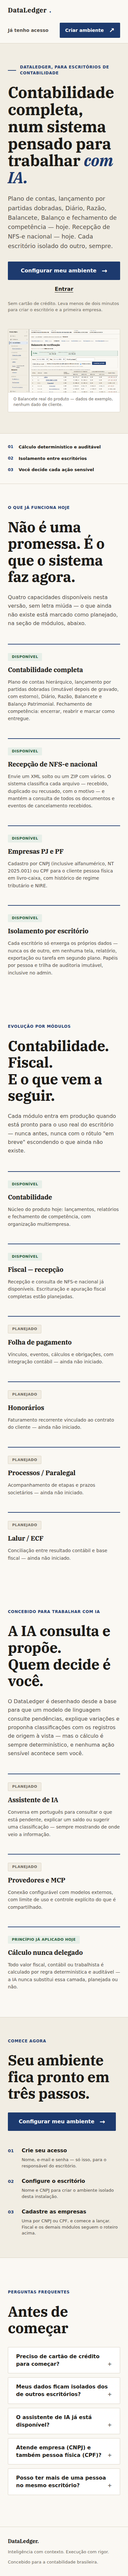
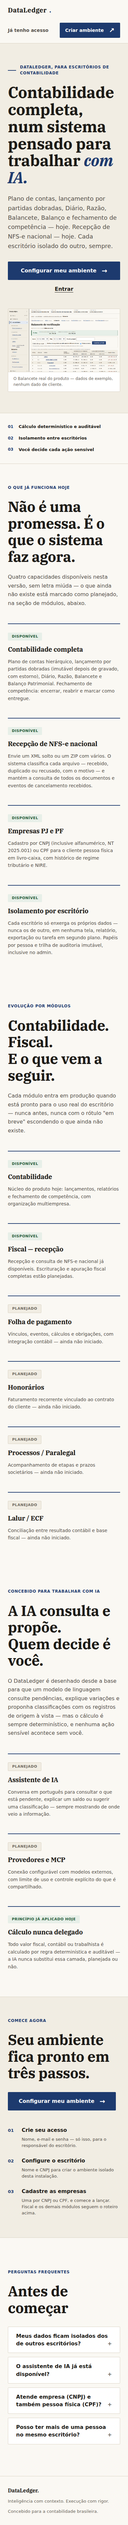
fix(dl042): remove linguagem comercial da landing e corrige altura da barra lateral
Dois ajustes pedidos pelo arquiteto-senior na revisão final da DL-042:

1. Landing: removida a frase "Sem cartão de crédito. Leva menos de dois
   minutos para criar o escritório e a primeira empresa." do herói e a
   pergunta "Preciso de cartão de crédito para começar?" do FAQ (com a
   resposta) — posicionamento comercial de SaaS que o Fred já tinha
   rejeitado na DL-036, e "menos de dois minutos" era afirmação nunca
   medida. Resto da página conferido contra o mesmo critério (venda,
   plano pago, preço, teste grátis): nada mais encontrado. Removida
   também a regra `.hero-note`, agora sem uso, de public.css.

2. Barra lateral: `.app-shell` usa `align-items: flex-start` (não o
   `stretch` padrão, por causa da linha móvel de marca/gatilho), então
   `.barra-lateral` só media a altura do próprio conteúdo de navegação
   em página curta (~290px no Painel), deixando o resto da coluna
   esquerda sem o fundo `--papel-alt`. Corrigido com `align-self:
   stretch` na própria `.barra-lateral`. Medido com getBoundingClientRect
   no Painel (página curta) e no Balancete (página longa) em scrollY
   0/800/1600: a caixa da barra permanece `top:0, height:900` (viewport
   1440x900) em todas as posições de rolagem real. Gaveta móvel (≤48rem,
   `position: fixed`) e impressão (barra na lista oculta de `@media
   print`) não são afetadas pela mudança.

Capturas de Painel, Balancete e Landing (1440x900 e 390x844) refeitas;
[…]

Changed region(s): [[0.0615, 0.4048, 0.9231, 0.9653], [0.0615, 0.0, 0.9231, 0.3737], [0.8308, 0.9031, 0.8615, 0.9653]]

diff --git a/templates/registration/landing.html b/templates/registration/landing.html
@@ -25,7 +25,6 @@ apresentados como prontos. Nenhum número, depoimento ou selo inventado
                 <a class="public-button" href="{% url 'cadastro' %}">Configurar meu ambiente <span aria-hidden="true">→</span></a>
                 <a class="public-text-link" href="{% url 'login' %}">Entrar</a>
             </div>
-            <p class="hero-note">Sem cartão de crédito. Leva menos de dois minutos para criar o escritório e a primeira empresa.</p>
         </div>
         <div class="hero-product">
             <figure>
@@ -158,10 +157,6 @@ apresentados como prontos. Nenhum número, depoimento ou selo inventado
         <h2 id="faq-title">Antes de começar</h2>
     </div>
     <div class="faq-list">
-        <details class="faq-item">
-            <summary>Preciso de cartão de crédito para começar?</summary>
-            <p>Não. Criar o escritório e a primeira empresa não pede pagamento nenhum nesta versão.</p>
-        </details>
         <details class="faq-item">
             <summary>Meus dados ficam isolados dos de outros escritórios?</summary>
             <p>Sim — é uma garantia estrutural do produto, não uma configuração opcional. Nenhuma consulta, relatório, exportação ou tarefa em segundo plano mistura dados de dois escritórios.</p>

diff --git a/static/css/base.css b/static/css/base.css
@@ -491,6 +491,15 @@ summary:focus,
     top: 0;
     max-height: var(--altura-viewport);
     overflow-y: auto;
+    /* `.app-shell` usa `align-items: flex-start` (não o `stretch` padrão) por
+       causa da linha móvel de marca/gatilho, que não deve esticar. A barra
+       precisa do próprio `align-self: stretch` para preencher a altura da
+       linha flex (>= 100vh, por causa do `min-height` de `.app-shell`) mesmo
+       em página curta — do contrário a caixa da barra para na altura do
+       próprio conteúdo de navegação e o resto da coluna esquerda fica sem o
+       fundo `--papel-alt`. `max-height` + `overflow-y: auto` continuam
+       cobrindo a rolagem em página alta. */
+    align-self: stretch;
 }
 
 .barra-lateral__topo {

diff --git a/static/css/public.css b/static/css/public.css
@@ -63,7 +63,6 @@
 .hero-description { max-width: var(--public-largura-texto); margin: 0 0 var(--esp-6); color: var(--tinta-suave); font-size: var(--public-corpo); line-height: 1.6; }
 .hero-actions { display: flex; flex-wrap: wrap; align-items: center; gap: var(--esp-5); }
 .public-text-link { color: var(--tinta); font-size: var(--tipo-md); font-weight: 700; text-decoration: underline; text-underline-offset: var(--esp-1); }
-.hero-note { margin: var(--esp-5) 0 0; color: var(--tinta-media); font-size: var(--tipo-sm); }
 
 .hero-product { min-width: 0; }
 .hero-product figure { margin: 0; border: var(--traco-fina) solid var(--borda-hairline); border-radius: var(--raio); overflow: hidden; background: var(--papel-elevado); }

diff --git a/docs/assets/telas/dl042/comparacao.md b/docs/assets/telas/dl042/comparacao.md
@@ -24,6 +24,22 @@ DL-042 completa (2ª passada), recapturada depois de:
 5. Distância do título a 390×844 recuperada para ≤230px sem esconder
    empresa/período (visível nas capturas de celular do Balancete/Diário/
    Plano de contas).
+6. Revisão final do arquiteto (mesma rodada, dois ajustes): linguagem
+   comercial removida da landing (frase "sem cartão de crédito" e a
+   pergunta correspondente do FAQ — Fred já tinha rejeitado esse
+   posicionamento na DL-036), e a barra lateral corrigida para ocupar a
+   altura inteira da janela em página curta (Painel) e longa (Balancete) —
+   `align-self: stretch` em `.barra-lateral` (`static/css/base.css`),
+   medido com `getBoundingClientRect` em `scrollY` 0/800/1600 no Balancete:
+   a caixa da barra permanece `top:0, height:900` (viewport 1440×900) em
+   todas as posições de rolagem real. Capturas de Painel, Balancete e
+   Landing (1440×900 e 390×844) refeitas nesta rodada; as demais 13 telas
+   não mudaram desde a rodada anterior. Nota sobre a própria captura: o
+   modo `full_page` do Chromium "estica" o viewport para o tamanho do
+   documento antes de tirar a foto, e isso faz um elemento `position:
+   sticky` aparecer preenchido só perto do topo da imagem no Balancete —
+   é um artefato do modo de captura, não do produto; a rolagem real
+   (medida acima) confirma que a barra acompanha a página inteira.
 
 ## Painel (Início)
 
@@ -217,6 +233,14 @@ de módulos com selo Disponível/Planejado, seção "Concebido para IA" com
 assistente/MCP marcados Planejados, e FAQ nativa. Paleta "papel e tinta" —
 igual à do produto autenticado — no lugar do painel escuro decorativo da
 DL-034/037.
+
+Revisão final do arquiteto: removida a frase "Sem cartão de crédito. Leva
+menos de dois minutos para criar o escritório e a primeira empresa." do
+herói (posicionamento comercial de SaaS que o Fred já tinha rejeitado na
+DL-036, e "menos de dois minutos" era afirmação não medida) e a pergunta
+"Preciso de cartão de crédito para começar?" do FAQ, com a resposta. O
+restante da página foi conferido contra o mesmo critério (nada de venda,
+plano pago, preço ou teste grátis) — nada mais encontrado.
 
 Computador (1440 × 900):
 

diff --git a/docs/projeto/mapa-de-telas.md b/docs/projeto/mapa-de-telas.md
@@ -353,6 +353,31 @@ telas de navegação, botões, módulos, TUDO")**
    nesta etapa (o portão de qualidade pede 360/768/1280/ultralargo; esta
    faixa intermediária específica ficou de fora).
 
+**Revisão final do arquiteto (mesma rodada — dois ajustes antes do PR)**
+
+9. ~~A barra lateral não ocupava a altura inteira da janela em página
+   curta.~~ **Resolvido.** `.app-shell` usa `align-items: flex-start` (não
+   o `stretch` padrão, por causa da linha móvel de marca/gatilho, que não
+   deve esticar) — sem `align-self` próprio, `.barra-lateral` só media a
+   altura do próprio conteúdo de navegação (~290px no Painel), deixando o
+   resto da coluna esquerda sem o fundo `--papel-alt`. Adicionado
+   `align-self: stretch` em `.barra-lateral` (`static/css/base.css`):
+   medido com `getBoundingClientRect` no Painel (página curta) e no
+   Balancete (página longa, `docScrollH` 3049px) em `scrollY` 0/800/1600 —
+   a caixa da barra permanece `top:0, height:900` (viewport 1440×900) em
+   todas as posições, sem quebrar a gaveta móvel (≤48rem, que já usa
+   `position: fixed` e não depende de `align-self`) nem o print (a barra
+   segue na lista oculta de `@media print`).
+10. ~~A landing tinha uma frase e uma pergunta de FAQ com posicionamento
+    comercial de SaaS.~~ **Resolvido.** O Fred já tinha rejeitado esse
+    posicionamento na DL-036. Removidos: "Sem cartão de crédito. Leva
+    menos de dois minutos para criar o escritório e a primeira empresa."
+    do herói (também violava a regra de não afirmar sem medir — "menos de
+    dois minutos" nunca foi cronometrado) e a pergunta "Preciso de cartão
+    de crédito para começar?" do FAQ, com a resposta. O restante da
+    landing foi conferido contra o mesmo critério (venda, plano pago,
+    preço, teste grátis) — nada mais encontrado.
+
 ### Ajustes de alto impacto aplicados nas duas rodadas
 
 - Ícones SVG inline (achado 1).
